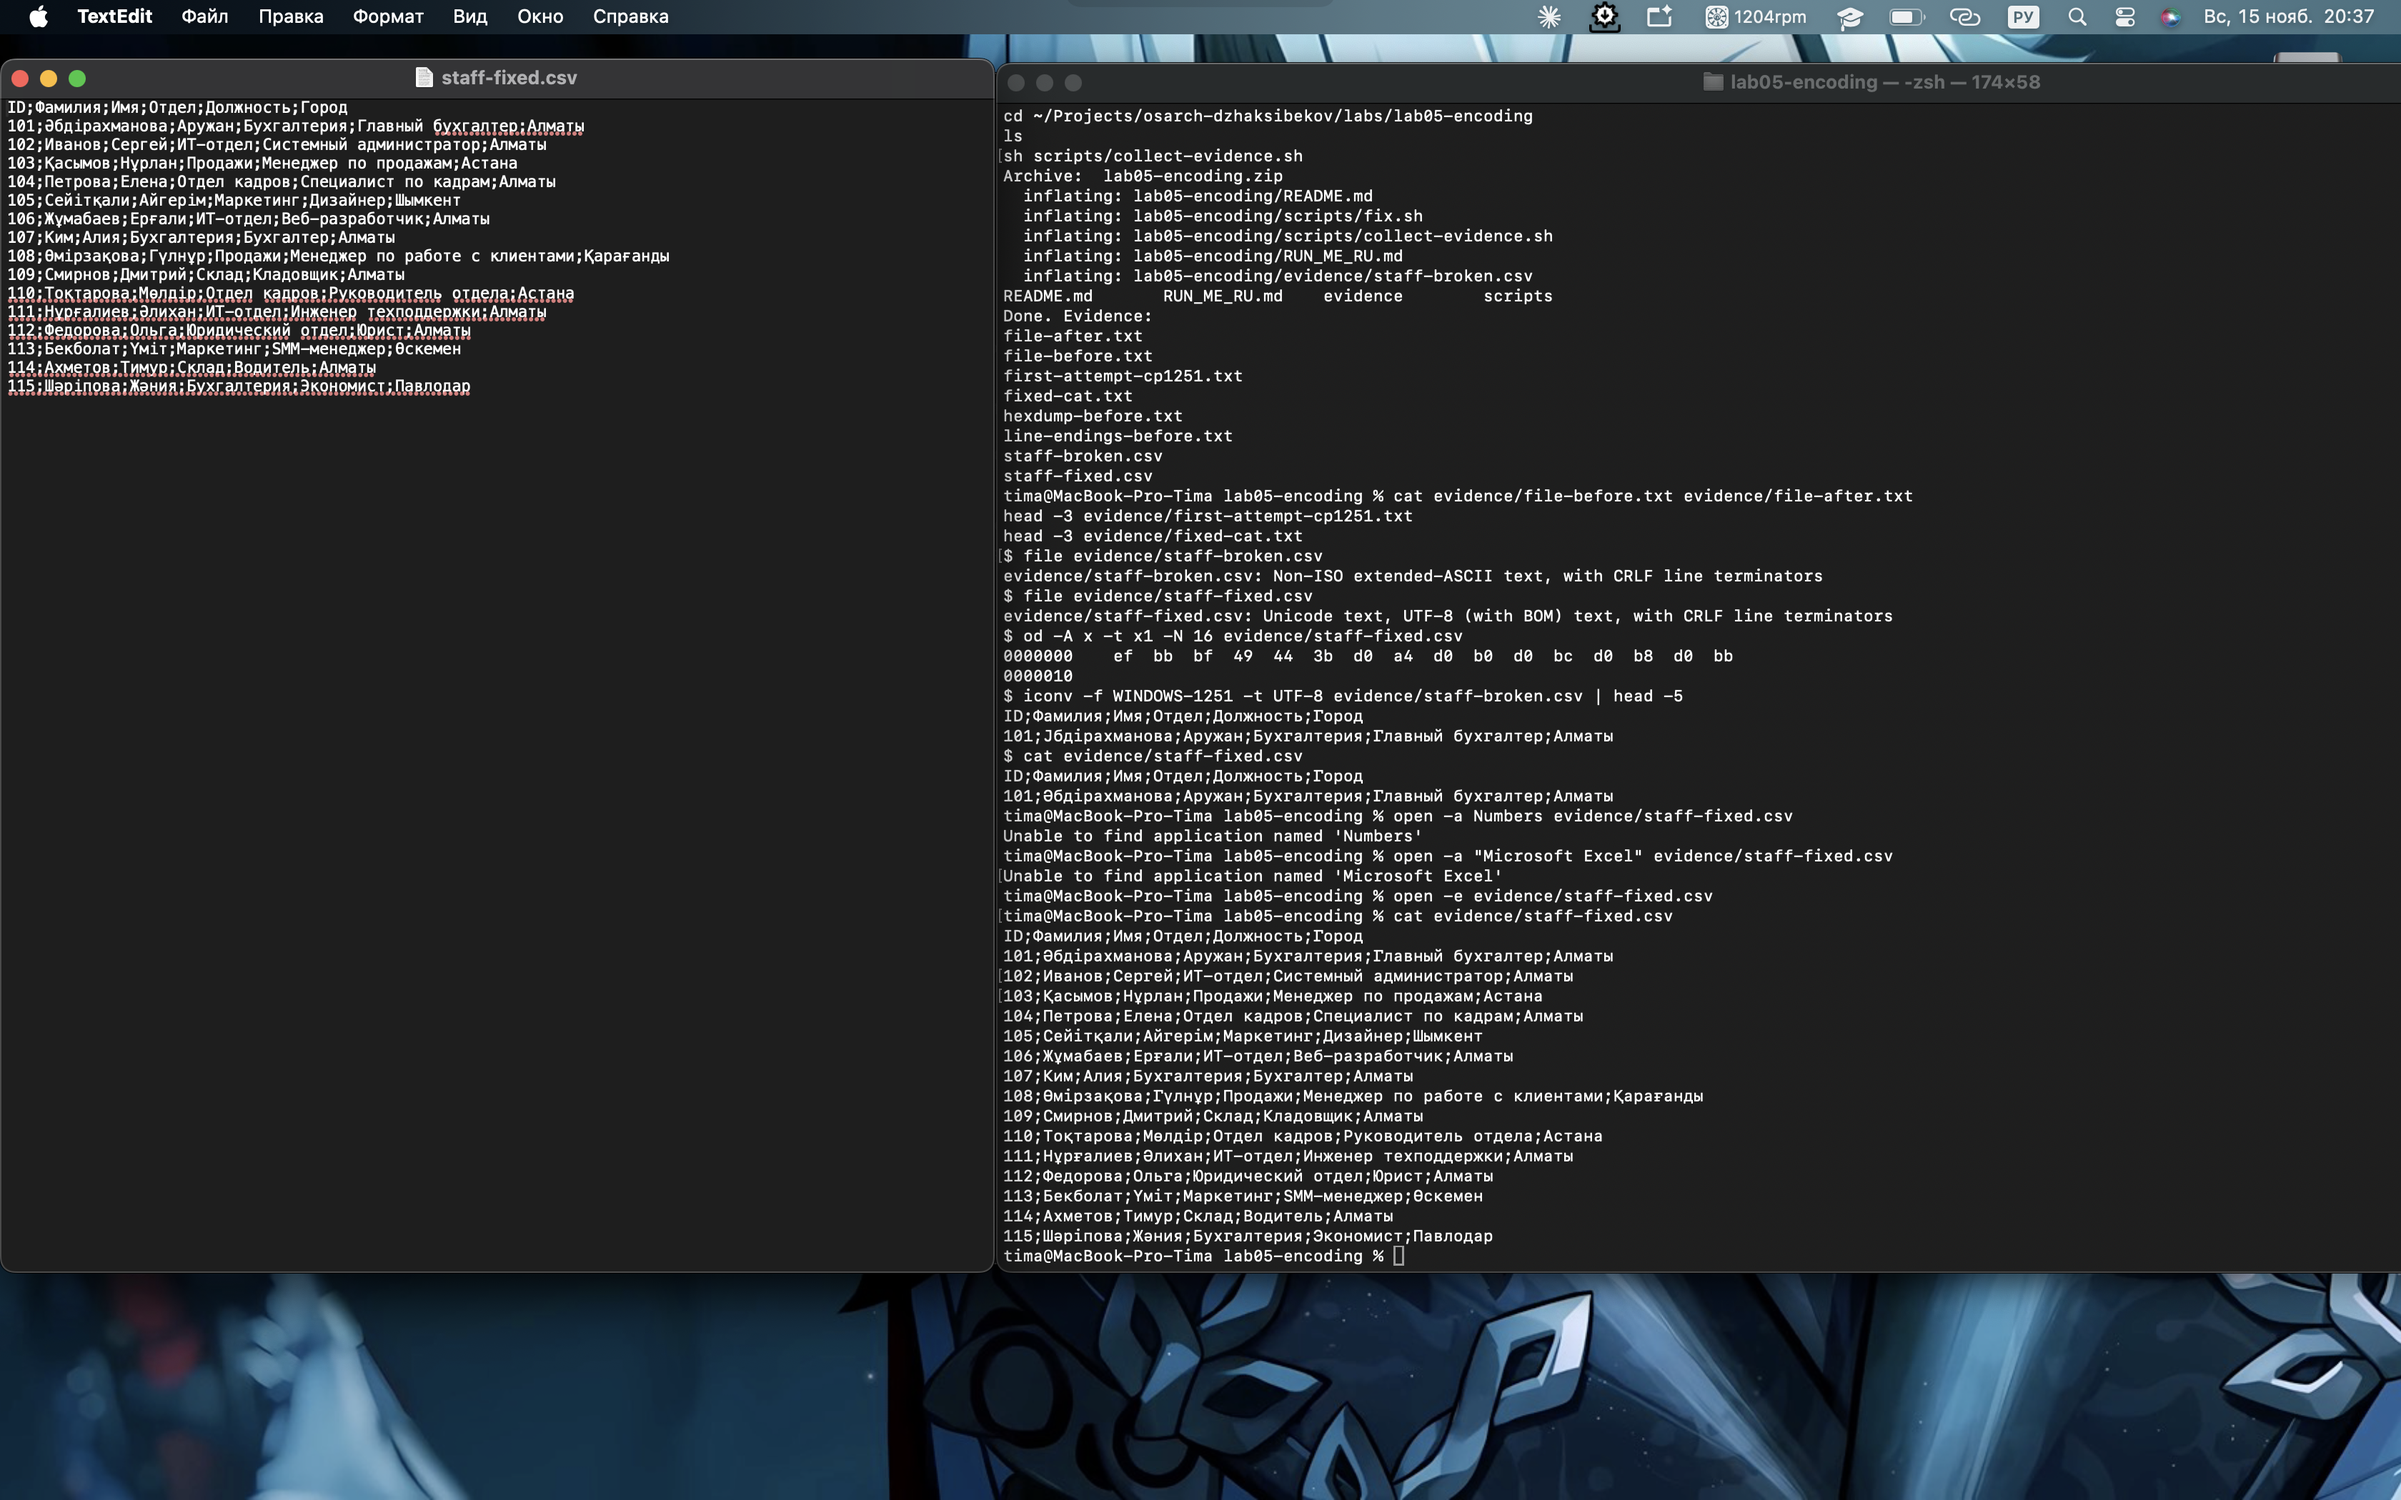
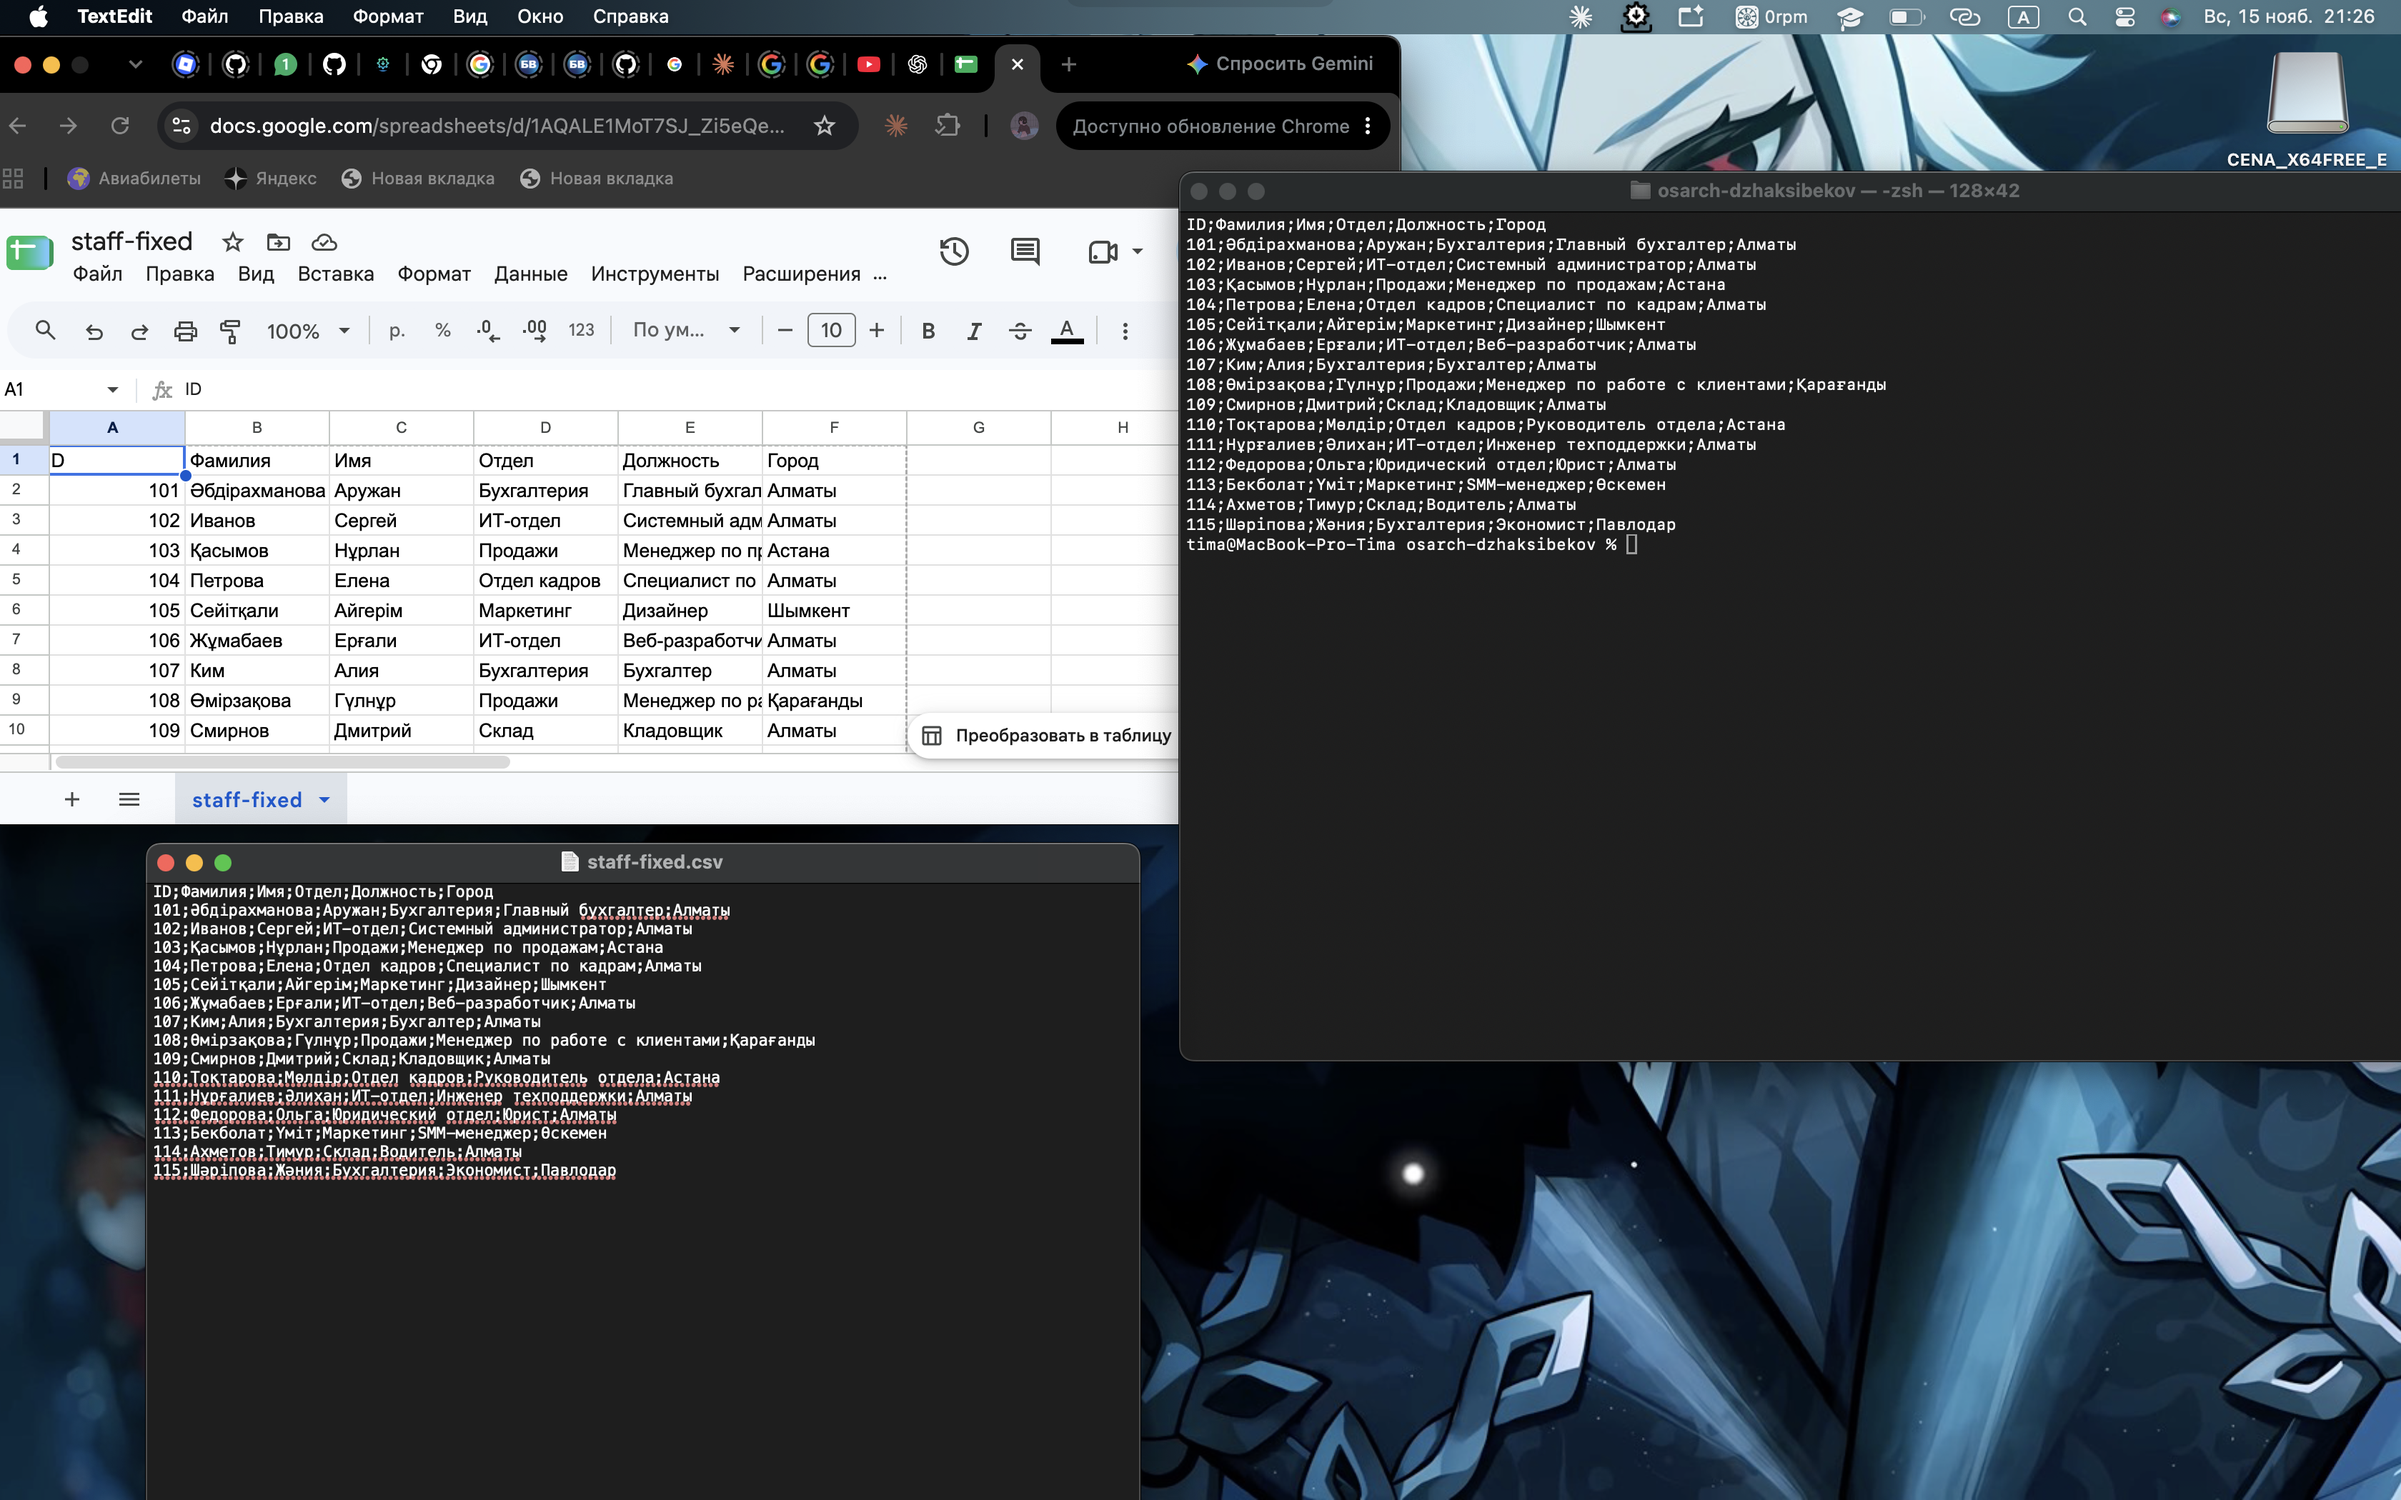
lab05: three-app verification screenshot, index and AI declaration

diff --git a/README.md b/README.md
@@ -8,6 +8,7 @@ Temirlan Jaxibekov · CYB26-5 · Innotech University · IFT 103 (Venera Kim)
 | Lab 0 — Inventory your own machine | [labs/lab00-inventory](labs/lab00-inventory/) | graded (partial) |
 | Lab 3 — Teardown, and the same machine from the command line | [labs/lab03-teardown](labs/lab03-teardown/) | submitted |
 | Lab 4 — Partition, mirror, fail, recover | [labs/lab04-storage](labs/lab04-storage/) | in progress |
+| Lab 5 — Encoding forensics | [labs/lab05-encoding](labs/lab05-encoding/) | submitted |
 | Ticket 2 — Office hardware specification | [tickets/ticket2-office-spec](tickets/ticket2-office-spec/) | in progress |
 
 ## Use of AI assistants
@@ -16,3 +17,4 @@ Temirlan Jaxibekov · CYB26-5 · Innotech University · IFT 103 (Venera Kim)
 | Lab 3 | Claude (Anthropic) | Drafted the component captions from the makers' spec pages, the two builds and the command table; wrote the three spec scripts (bash checked with shellcheck); ran `linux-specs.sh` in the Claude app's Linux VM on my Mac | Checked every caption against the maker's page and took the screenshots; ran `macos-specs.sh` on my Mac; can explain every line |
 | Ticket 2 | Claude (Anthropic) | Looked up parts and prices on shop.kz, drafted the four builds, budget.csv and the report, checked the sums | Read and corrected the report; took the price screenshots and made the PCPartPicker lists myself; can explain every choice |
 | Lab 4 | Claude (Anthropic) | Added the three virtual disks in UTM, ran the Linux commands on my `lab02` VM through computer use while I watched and entered the passwords, saved the evidence files, drafted the README | Checked every evidence file against the VM; my partner Daiana did the Windows half on her machine; can repeat and explain every step |
+| Lab 5 | Claude (Anthropic) | Drafted the README and the two scripts (fix.sh, collect-evidence.sh; checked with shellcheck) | Ran both scripts on my Mac, made the three-app screenshot, compared the bytes in the dumps; can explain every line |

diff --git a/labs/lab05-encoding/README.md b/labs/lab05-encoding/README.md
@@ -26,7 +26,7 @@ Run from this folder: `sh scripts/fix.sh`. All evidence is produced by `sh scrip
 ## Verification
 - `evidence/file-after.txt`: `Unicode text, UTF-8 (with BOM) text, with CRLF line terminators`; first bytes `ef bb bf 49 44 3b d0 a4 …` = BOM, then `ID;Ф…` in UTF-8.
 - `evidence/fixed-cat.txt`: every name reads correctly, for example Әбдірахманова, Қасымов, Нұрлан.
-- `evidence/opens-correctly.png`: TextEdit and the terminal side by side. Excel and LibreOffice are not installed on my Mac; the BOM is added for the Excel case.
+- `evidence/opens-correctly.png`: three applications side by side — Google Sheets (CSV import, separator `;`), TextEdit, and `cat` in the macOS terminal. Excel and LibreOffice are not installed on my Mac; the BOM is added for the Excel double-click case.
 
 ## What did not work the first time
 My first guess was Windows-1251, because the Russian header decoded fine. The Kazakh surnames stayed broken (`Јбдірахманова`, `Ќасымов`) — saved in `evidence/first-attempt-cp1251.txt`. So the code page differs only in the Kazakh letters, which points to RK1048.
